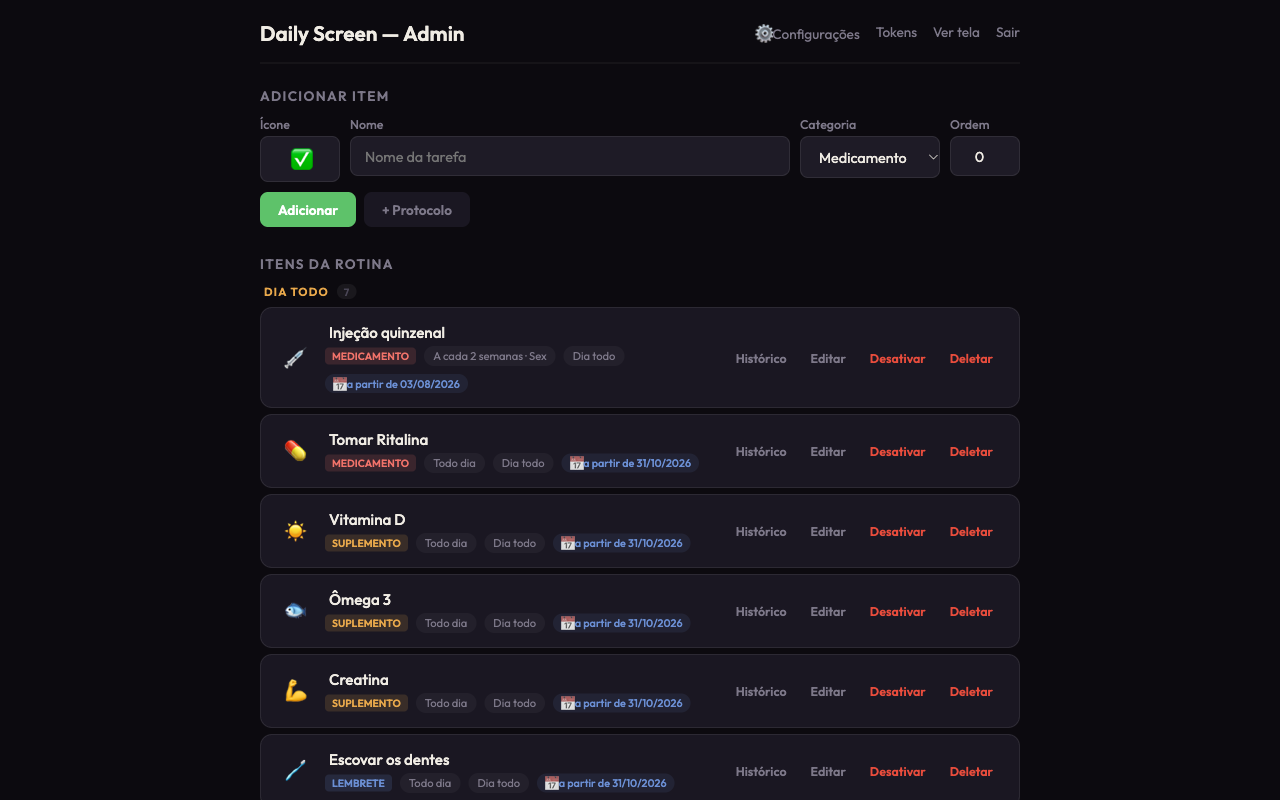
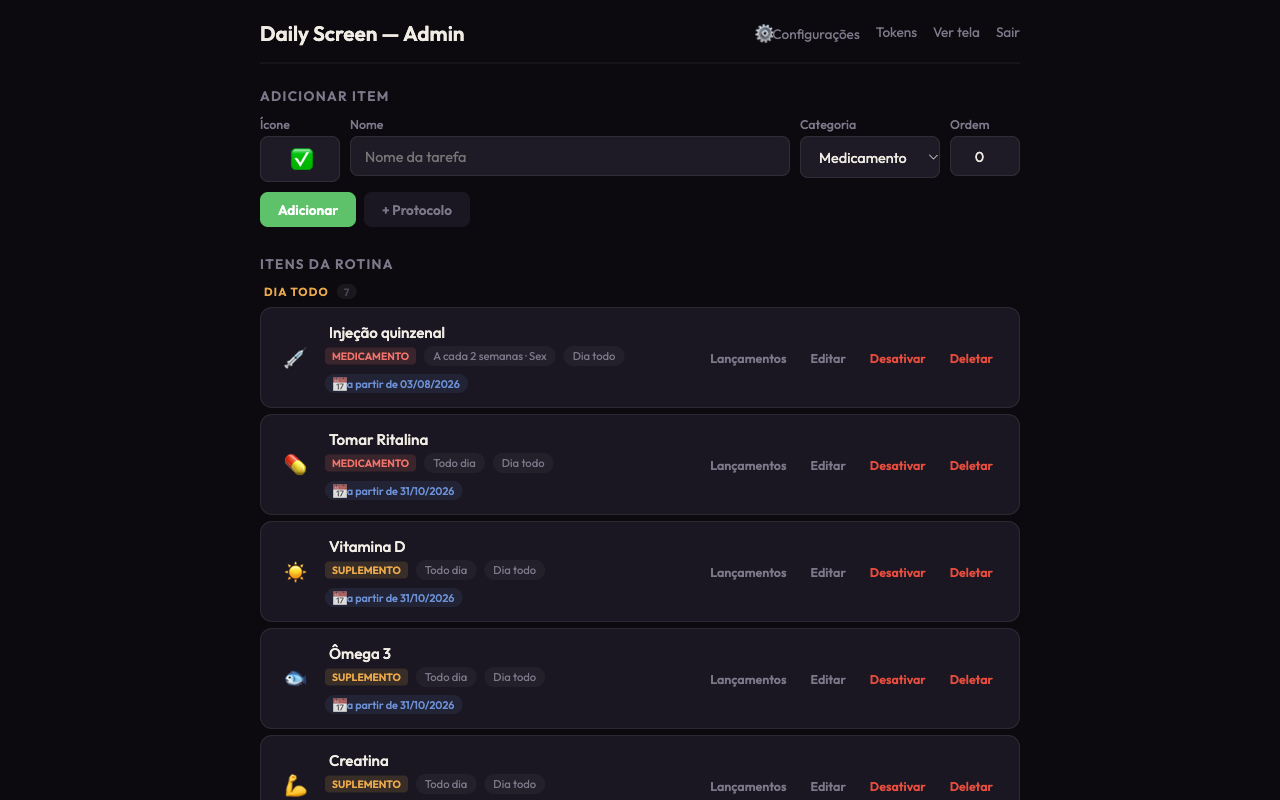
feat(admin): janela Histórico vira "Lançamentos" (Entries / Registros) e o título diz o nome
A janela mostra passado e dias agendados e serve para lançar e estornar dias —
"Histórico" sugeria só leitura do passado. README e prints atualizados.

diff --git a/public/admin.js b/public/admin.js
@@ -932,7 +932,7 @@ document.getElementById('confirm-action').addEventListener('click', async () => 
   closeConfirm();
 });
 
-// ═══ Histórico — every occurrence (day) of a repeated item ═══
+// ═══ Lançamentos (entries) — every occurrence (day) of a repeated item ═══
 // Governance without touching the DB by hand: see when each day was created,
 // whether it was done, mark/unmark, remove/restore (soft), add a day, and
 // bulk-remove unmarked past days that no longer fit the rule. Every removal
@@ -953,7 +953,8 @@ function openHistoryModal(id, opts) {
   historyItemId = id;
   const item = itemsById[id];
   const weekdays = JSON.parse((item && item.weekdays) || '[0,1,2,3,4,5,6]');
-  document.getElementById('history-title').textContent = opts ? opts.title : (item ? item.title : '');
+  document.getElementById('history-title').textContent =
+    t('admin.historyTitle', { name: opts ? opts.title : (item ? item.title : '') });
   document.getElementById('history-icon').textContent = opts ? (opts.icon || '') : (item ? item.icon : '');
   document.getElementById('history-rule').textContent = opts ? opts.rule : (item ? repeatSummary(item, weekdays) : '');
   document.getElementById('history-add-date').value = todayISO();

diff --git a/views/admin.html b/views/admin.html
@@ -349,7 +349,7 @@
     .modal h2 { font-size: 1.1rem; margin-bottom: 20px; }
     .modal-actions { display: flex; gap: 8px; justify-content: flex-end; margin-top: 20px; }
 
-    /* ═══ Histórico — every day of a repeated item (governance) ═══ */
+    /* ═══ Lançamentos (entries) — every day of a repeated item (governance) ═══ */
     #history-modal.modal-overlay { align-items: center; padding: 16px; }
     .modal--history {
       max-width: 760px; display: flex; flex-direction: column;
@@ -1598,7 +1598,7 @@
       <header class="hist-head">
         <span class="hist-head-icon" id="history-icon" aria-hidden="true"></span>
         <div class="hist-head-text">
-          <h2 id="history-title" data-i18n="admin.history">Histórico</h2>
+          <h2 id="history-title" data-i18n="admin.history">Lançamentos</h2>
           <div class="hist-head-meta">
             <span class="hist-rule-pill" id="history-rule"></span>
             <span id="history-summary"></span>

diff --git a/public/sw.js b/public/sw.js
@@ -1,4 +1,4 @@
-const CACHE_NAME = 'daily-screen-v25';
+const CACHE_NAME = 'daily-screen-v26';
 const SHELL_ASSETS = [
   '/',
   '/public/style.css',

diff --git a/README.md b/README.md
@@ -20,7 +20,7 @@ A wall-mounted daily assistant for tablets (Fire HD 8, 1280×800 landscape). Dis
     <td align="center"><a href="docs/screenshots/edit-item.png"><img src="docs/screenshots/edit-item.png" width="280" alt="Edit item modal with repeat frequency"></a><br><sub>Edit item · repeat frequency</sub></td>
   </tr>
   <tr>
-    <td align="center" colspan="3"><a href="docs/screenshots/history.png"><img src="docs/screenshots/history.png" width="560" alt="History window — every day of a repeated item, with mark, remove/restore and add a one-off day"></a><br><sub>History — see and fix every day of a repeated task</sub></td>
+    <td align="center" colspan="3"><a href="docs/screenshots/history.png"><img src="docs/screenshots/history.png" width="560" alt="Entries window — every day of a repeated item, with mark, remove/restore and add a one-off day"></a><br><sub>Entries — see and fix every day of a repeated task</sub></td>
   </tr>
 </table>
 
@@ -30,7 +30,7 @@ A wall-mounted daily assistant for tablets (Fire HD 8, 1280×800 landscape). Dis
 - **Repeat frequency** — every N days, weeks (on chosen weekdays) or months (day 31 falls on the last day of shorter months)
 - **Boxes with a dose count** — e.g. a 30-pill box counts down as you mark doses; when it runs out a "Buy X" task appears, and "I bought it" starts a fresh box
 - **Protocols** — dated phases in sequence (tapering, titration), each with its own schedule, plus end-of-protocol alerts
-- **History & governance** — per item, see every day: when it was created, whether it was done, whether it still fits the rule; mark/unmark, remove/restore (always reversible), add a one-off day, or clean days that no longer fit the rule
+- **Entries (history & governance)** — per item, see every day: when it was created, whether it was done, whether it still fits the rule; mark/unmark, remove/restore (always reversible), add a one-off day, or clean days that no longer fit the rule
 - **Manual corrections** — fix the "already taken" count of a box by hand; changing the rule cleans pending days from today on
 - **Non-destructive by default** — converting an item into a protocol only happens when you save; deleting from the tablet only archives
 - **Progress tracking** — visual completion percentage; the screen follows midnight on its own
@@ -169,7 +169,7 @@ daily-screen/
     admin.js             # POST /admin/login, GET /admin
     api.js               # REST API endpoints
     integration.js       # /integration/v1 (bearer token)
-    occurrences.js       # History/governance routes, mounted on both APIs
+    occurrences.js       # Entries (per-day governance) routes, mounted on both APIs
   lib/
     validators.js        # Request validation and normalization
   middleware/
@@ -192,7 +192,7 @@ daily-screen/
 
 ### Key Patterns
 
-**Lazy task generation** — daily_tasks are created on-demand when you call `GET /api/tasks?date=YYYY-MM-DD`: one per active series whose rule (weekdays + frequency, inside its date window) falls on that date. Removing a day in History leaves a tombstone, so it is not regenerated.
+**Lazy task generation** — daily_tasks are created on-demand when you call `GET /api/tasks?date=YYYY-MM-DD`: one per active series whose rule (weekdays + frequency, inside its date window) falls on that date. Removing a day in Entries leaves a tombstone, so it is not regenerated.
 
 **CSS custom properties** — Font sizes are stored in the database and applied as CSS variables. Admin can adjust `--fs-clock`, `--fs-greeting`, etc. in real-time.
 
@@ -220,14 +220,14 @@ All endpoints are prefixed with `/api`.
 - `DELETE /api/items/:id/permanent` — Hard delete
 - `POST /api/items/:id/convert-to-protocol` — Turn an item into a protocol (send the full protocol form to convert in one step, keeping the box history)
 - `GET/POST/PUT/DELETE /api/protocols[/:id]` — Protocols (`?include_inactive=1` lists archived ones)
-- `GET /api/items/:id/occurrences` — Every day of an item (History)
+- `GET /api/items/:id/occurrences` — Every day of an item (Entries window)
 - `POST /api/items/:id/occurrences` — Add a one-off day · `POST /api/items/:id/occurrences/prune` — clean off-rule days (`dry_run` to preview)
 - `PUT /api/occurrences/:id` (`completed` / `removed`) · `DELETE /api/occurrences/:id` — mark, unmark, remove, restore
 - `PUT /api/settings` — Update settings (key-value pairs)
 
 ### Integration API (token-authenticated)
 
-For external agents (scripts, cron jobs, other LLM-driven tools), there's a parallel token-authenticated surface at `/integration/v1/*` with full CRUD coverage of items, protocols, tasks, settings, the day-by-day History of each item (`/integration/v1/items/:id/occurrences`), and adherence/history analytics. Tokens are managed in the admin panel under **Tokens** (top nav). A valid token currently has full access to the whole integration surface (no per-token scopes yet).
+For external agents (scripts, cron jobs, other LLM-driven tools), there's a parallel token-authenticated surface at `/integration/v1/*` with full CRUD coverage of items, protocols, tasks, settings, the day-by-day entries of each item (`/integration/v1/items/:id/occurrences`), and adherence/history analytics. Tokens are managed in the admin panel under **Tokens** (top nav). A valid token currently has full access to the whole integration surface (no per-token scopes yet).
 
 See [`docs/2026-04-20-integration-api.md`](docs/2026-04-20-integration-api.md) for the complete guide — includes data models, endpoint reference with curl + Node.js examples, gotchas, and a ready-to-copy skill template for Claude Code.
 
